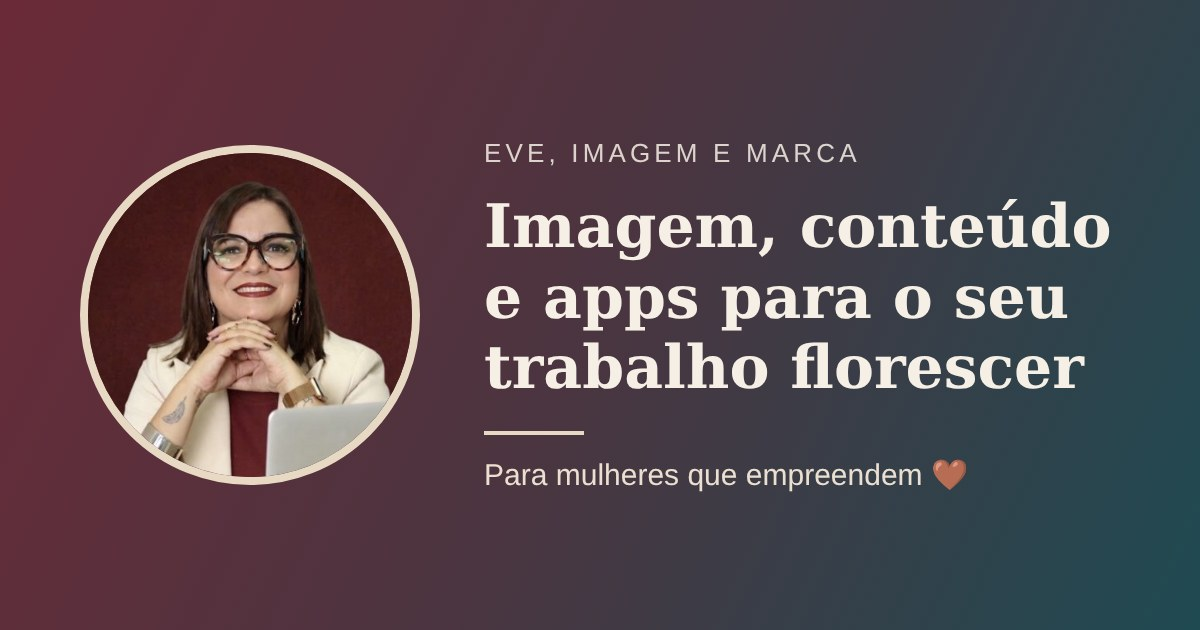
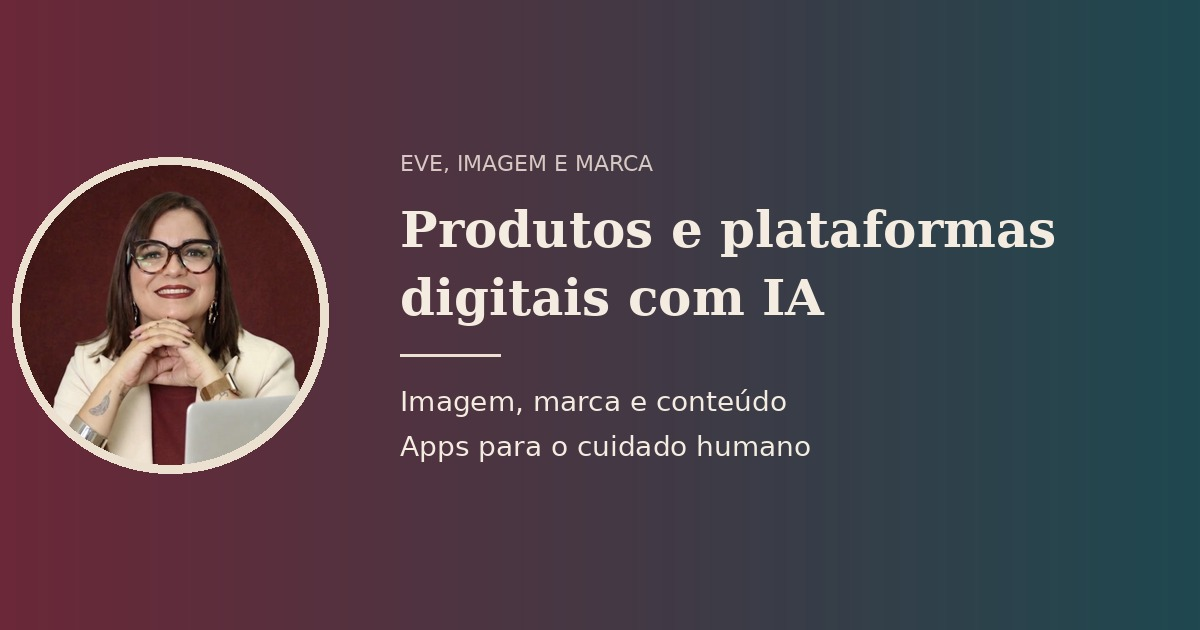
Portfolio: nova capa para LinkedIn
Claude-Session: https://claude.ai/code/session_01CqJtknc3SVqWJ9et3mfrHv

Changed region(s): [[0.0, 0.2111, 0.925, 0.7841], [0.3392, 0.2111, 0.7092, 0.2714]]

diff --git a/index.html b/index.html
@@ -9,11 +9,11 @@
 <meta property="og:url" content="https://eve-imagem-e-marca.github.io/portfolio/">
 <meta property="og:title" content="Eve, imagem e marca">
 <meta property="og:description" content="Imagem, conteúdo e apps para o seu trabalho florescer.">
-<meta property="og:image" content="https://eve-imagem-e-marca.github.io/portfolio/capa.jpg">
+<meta property="og:image" content="https://eve-imagem-e-marca.github.io/portfolio/capa2.jpg">
 <meta property="og:image:width" content="1200">
 <meta property="og:image:height" content="630">
 <meta name="twitter:card" content="summary_large_image">
-<meta name="twitter:image" content="https://eve-imagem-e-marca.github.io/portfolio/capa.jpg">
+<meta name="twitter:image" content="https://eve-imagem-e-marca.github.io/portfolio/capa2.jpg">
 <style>
 :root{--mars:#6b2a37;--pet:#1f4a52;--cre:#f6efe6;--mar:#8a5a3c;--tx:#2b2226}
 *{box-sizing:border-box;margin:0;padding:0}
